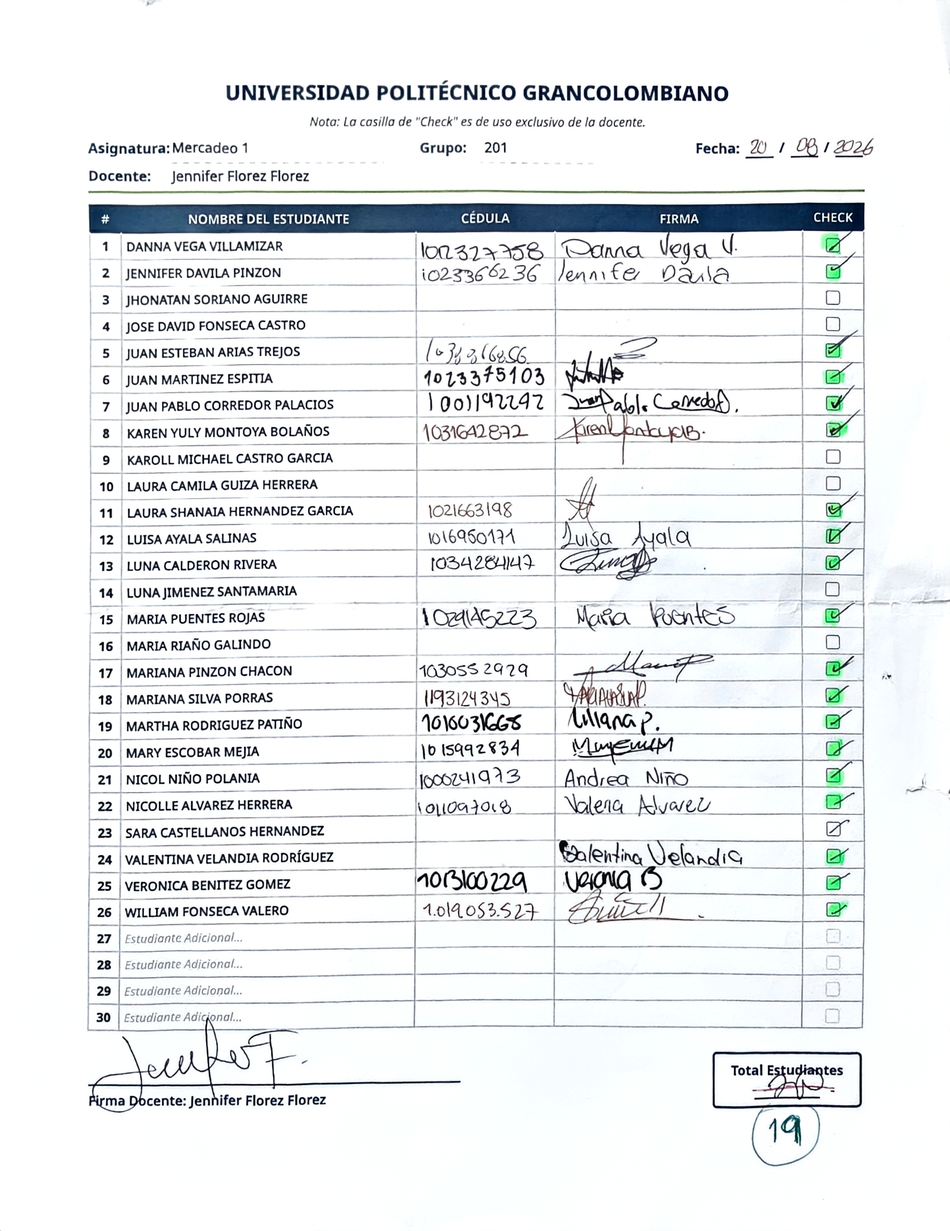
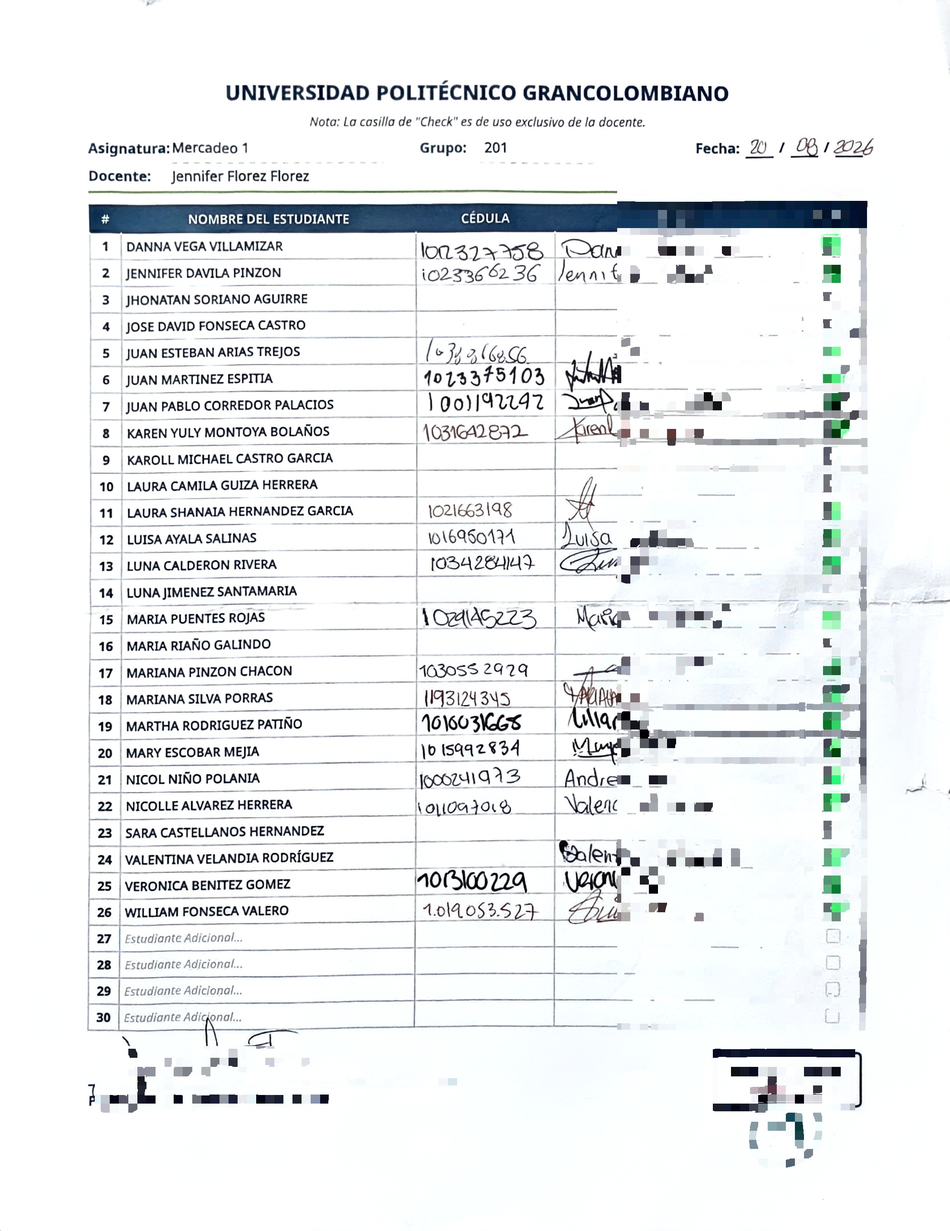
Security: Pixelar informacion confidencial de firmas y cedulas usando script python OpenCV

Changed region(s): [[0.6516, 0.1547, 0.9308, 0.9591], [0.0931, 0.8354, 0.3723, 0.8972]]

diff --git a/Docs/anonymize.py b/Docs/anonymize.py
@@ -1,0 +1,82 @@
+import cv2
+import numpy as np
+import os
+import glob
+
+def pixelate_image(image, blocks=15):
+    h, w = image.shape[:2]
+    if h == 0 or w == 0: return image
+    # Reducir imagen fuertemente
+    small = cv2.resize(image, (max(1, w//blocks), max(1, h//blocks)), interpolation=cv2.INTER_LINEAR)
+    # Volver a ampliarla usando NEAREST para crear el efecto mosaico/pixelado
+    pixelated = cv2.resize(small, (w, h), interpolation=cv2.INTER_NEAREST)
+    return pixelated
+
+def process_attendance_list(image_path, output_path):
+    img = cv2.imread(image_path)
+    if img is None:
+        print(f"Error: No se pudo leer {image_path}")
+        return
+
+    h, w = img.shape[:2]
+
+    # Convertir a escala de grises
+    gray = cv2.cvtColor(img, cv2.COLOR_BGR2GRAY)
+    
+    # 1. Encontrar la "tinta" (texto escrito) usando un threshold
+    # Papel blanco (~255), tinta oscura (< 150)
+    _, ink_mask = cv2.threshold(gray, 150, 255, cv2.THRESH_BINARY_INV)
+
+    # Dilatar la máscara para abarcar los trazos completos y no dejar bordes nítidos
+    kernel = np.ones((5,5), np.uint8)
+    ink_mask = cv2.dilate(ink_mask, kernel, iterations=3)
+
+    # 2. Generar versión pixelada de toda la imagen
+    pixelated_full = pixelate_image(img, blocks=20) # Nivel de pixelado alto
+
+    # 3. Definir Zonas Sensibles (Cajas delimitadoras relativas a la hoja)
+    zone_mask = np.zeros_like(ink_mask)
+    
+    # ZONA A: Estudiantes (Cédula mitad derecha y Firma completa)
+    # Suponiendo que Cédula y firma están en el lado derecho de la hoja (x: 65% a 95%)
+    # y excluyendo el encabezado (y: 15% a 85%)
+    cv2.rectangle(zone_mask, (int(w*0.65), int(h*0.15)), (int(w*0.95), int(h*0.85)), 255, -1)
+    
+    # ZONA B: Firma Docente
+    # Suponiendo que firma al final de la página, centrada (bottom 15%)
+    cv2.rectangle(zone_mask, (int(w*0.1), int(h*0.85)), (int(w*0.9), int(h*0.98)), 255, -1)
+
+    # 4. Intersecar: Solo pixelaremos donde haya TINTA y esté dentro de la ZONA SENSIBLE
+    final_mask = cv2.bitwise_and(zone_mask, ink_mask)
+
+    # Convertir máscara a 3 canales para mezclarla con la imagen a color
+    final_mask_3c = cv2.cvtColor(final_mask, cv2.COLOR_GRAY2BGR)
+
+    # 5. Aplicar la pixelación solo en la máscara resultante
+    # Si la celda está vacía (no hay tinta), final_mask será 0, por ende se conserva el pixel original (blanco)
+    result = np.where(final_mask_3c == 255, pixelated_full, img)
+
+    cv2.imwrite(output_path, result)
+    print(f"Anonimizada y guardada: {os.path.basename(output_path)}")
+
+def main():
+    raw_dir = os.path.join(os.path.dirname(__file__), '..', 'Assents', 'Listas_Crudas')
+    out_dir = os.path.join(os.path.dirname(__file__), '..', 'Assents', 'Listas')
+    
+    os.makedirs(out_dir, exist_ok=True)
+    
+    files = glob.glob(os.path.join(raw_dir, '*.jpg'))
+    if not files:
+        print(f"No se encontraron imágenes en {raw_dir}")
+        return
+
+    print(f"Iniciando anonimización de {len(files)} listas...")
+    for file in files:
+        filename = os.path.basename(file)
+        out_path = os.path.join(out_dir, filename)
+        process_attendance_list(file, out_path)
+    
+    print("¡Proceso completado exitosamente!")
+
+if __name__ == '__main__':
+    main()

diff --git a/Docs/IA_WORKFLOW.md b/Docs/IA_WORKFLOW.md
@@ -8,13 +8,20 @@ Por favor, sigue **rigurosamente** estos pasos para mantener la integridad del s
 
 ---
 
-## 1. Recepción, Detección y Renombrado de la Imagen
+## 1. Recepción, Anonimización y Renombrado de la Imagen
+Por seguridad de datos personales, **ninguna lista debe publicarse en crudo**. El proyecto cuenta con un script de Computer Vision que aplica un difuminado inteligente.
+
 1. **Recepción**: El usuario te entregará una imagen adjunta o te indicará en qué directorio local se encuentra.
-2. **Análisis de Fecha**: Inspecciona visualmente la imagen escaneada para encontrar la fecha escrita a mano (usualmente en la esquina superior derecha o en la cabecera).
-3. **Renombrado**: Mueve/Copia la imagen y guárdala en el repositorio local dentro de la carpeta `Assents/Listas/`.
-4. **Regla de Nomenclatura**: Debes seguir el formato secuencial exacto que ya existe:
+2. **Análisis de Fecha**: Inspecciona visualmente la imagen escaneada para encontrar la fecha escrita a mano.
+3. **Guardado en Crudo**: Guarda la imagen original dentro de la carpeta `Assents/Listas_Crudas/`.
+4. **Regla de Nomenclatura**: Debes renombrar la imagen usando el formato secuencial exacto:
    `[Número Secuencial]. [Mes en Inglés 3 letras] [Día] [Año].jpg`
-   *Ejemplo*: Si la última lista fue `07. Sep 24 2026.jpg`, la nueva lista se llamará `08. Oct 01 2026.jpg`.
+   *Ejemplo*: `08. Oct 01 2026.jpg`.
+5. **Procesamiento de Anonimización**: DEBES ejecutar por consola el script de Python que lee las imágenes crudas, detecta la tinta, y pixela la mitad de las cédulas y firmas protegiendo los cuadros en blanco:
+```powershell
+python Docs/anonymize.py
+```
+*(El script tomará la nueva imagen en `Listas_Crudas` y automáticamente generará la versión censurada en la carpeta pública `Assents/Listas/`).*
 
 ---
 
